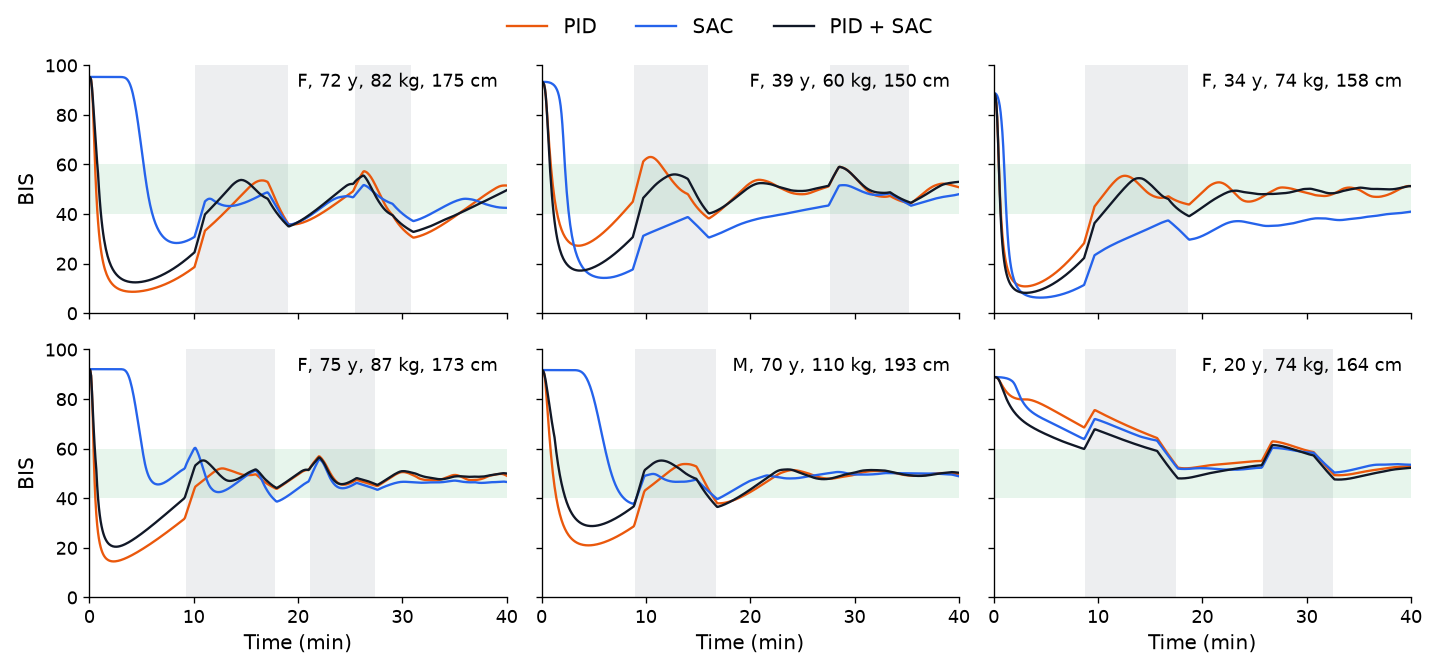
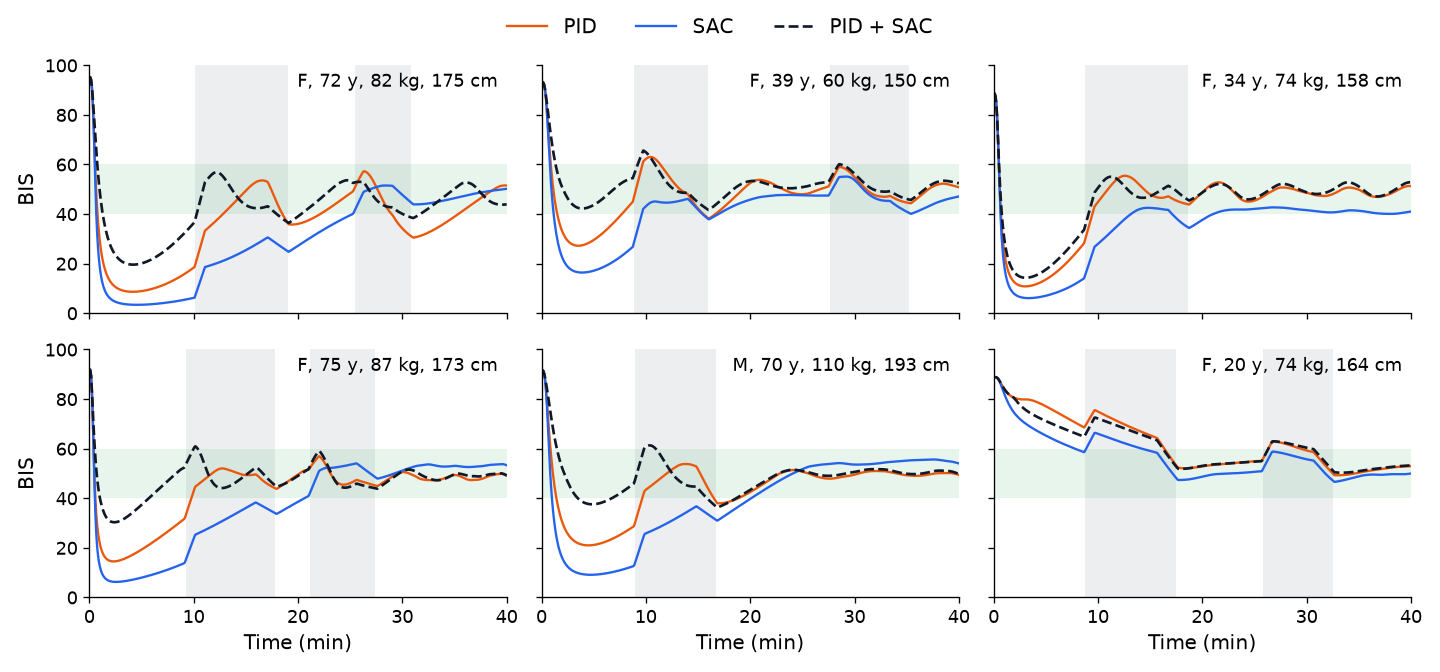
Minimum induction bolus, same 5-40 min scoring window for all, 5 seeds

diff --git a/benchmark.py b/benchmark.py
@@ -22,13 +22,12 @@ from residual import ResidualPolicy
 
 from style import COLORS as C, TARGET as C_TARGET
 MUTED = '#6B7280'
-ROWS = [('time_in_target', 'Maintenance: time in 40-60 (%)'),
-        ('MDAPE', 'Maintenance: MDAPE (%)'),
-        ('MDPE', 'Maintenance: MDPE (%)'),
-        ('wobble', 'Maintenance: wobble (%)'),
-        ('propofol_mgkgh', 'Maintenance: propofol (mg/kg/h)'),
-        ('case_below_40', 'Whole case: time below 40 (%)'),
-        ('case_above_60', 'Whole case: time above 60 after 1 min (%)'),
+ROWS = [('time_in_target', 'Time in 40-60 (%)'),
+        ('time_below_40', 'Time below 40 (%)'),
+        ('time_above_60', 'Time above 60 (%)'),
+        ('MDAPE', 'MDAPE (%)'),
+        ('propofol_mgkgh', 'Maintenance propofol (mg/kg/h)'),
+        ('bolus_mgkg', 'Induction bolus (mg/kg)'),
         ('reached_below_20', 'Patients reaching BIS < 20 (%)')]
 
 
@@ -59,19 +58,26 @@ def main():
             cells.append(f'{v.mean():.1f}' if len(v) == 1 else f'{v.mean():.1f} ± {v.std():.1f}')
         lines.append(f'| {label} | ' + ' | '.join(cells) + ' |')
 
-    per_patient = {n: np.mean([[m['time_in_target'] for m in res[n][s][1]] for s in res[n]], axis=0) for n in names}
+    per_seed = {n: np.array([[m['time_in_target'] for m in res[n][s][1]] for s in res[n]]) for n in names}
+    per_patient = {n: per_seed[n].mean(axis=0) for n in names}
     paired = {}
     for n in names[1:]:
         d = per_patient[n] - per_patient['PID']
+        # hierarchical bootstrap: resample training seeds, then test patients
         rng = np.random.default_rng(0)
-        boot = [rng.choice(d, len(d)).mean() for _ in range(10_000)]
+        D = per_seed[n] - per_seed['PID'][0]
+        boot = []
+        for _ in range(10_000):
+            seeds = rng.integers(0, len(D), len(D))
+            pats = rng.integers(0, D.shape[1], D.shape[1])
+            boot.append(D[seeds][:, pats].mean())
         lo, hi = np.percentile(boot, [2.5, 97.5])
         paired[n] = {'better': int(np.sum(d > 1)), 'worse': int(np.sum(d < -1)), 'n': len(d),
                      'mean_diff': float(d.mean()), 'ci95': [float(lo), float(hi)]}
         lines.append('')
         lines.append(f'{n} vs PID, per patient (time in target, averaged over seeds): better on {paired[n]["better"]}, '
                      f'worse on {paired[n]["worse"]}, within 1 point on {len(d) - paired[n]["better"] - paired[n]["worse"]} of {len(d)}. '
-                     f'Mean difference {d.mean():+.1f} points (95% bootstrap CI {lo:+.1f} to {hi:+.1f}).')
+                     f'Mean difference {d.mean():+.1f} points (95% CI {lo:+.1f} to {hi:+.1f}, bootstrap over seeds and patients).')
 
     out = {n: {str(s): res[n][s][0] for s in res[n]} for n in names}
     out['paired_vs_pid'] = paired
@@ -106,9 +112,9 @@ def figure_paired(pp):
     ax.plot([20, 100], [20, 100], color='#9CA3AF', lw=1, ls='--')
     for n, mk in (('SAC', 'o'), ('PID + SAC', '^')):
         if n in pp:
-            ax.scatter(pp['PID'], pp[n], s=34, color=C[n], alpha=0.85, label=n, marker=mk, lw=0)
-    ax.set_xlabel('PID, maintenance time in 40-60 (%)', fontsize=11)
-    ax.set_ylabel('RL, maintenance time in 40-60 (%)', fontsize=11)
+            ax.scatter(pp['PID'], pp[n], s=38, facecolors='none', edgecolors=C[n], lw=1.3, label=n, marker=mk)
+    ax.set_xlabel('PID, time in 40-60 (%)', fontsize=12)
+    ax.set_ylabel('RL, time in 40-60 (%)', fontsize=12)
     ax.set_xticks([20, 40, 60, 80, 100]); ax.set_yticks([20, 40, 60, 80, 100])
     ax.set_xlim(18, 101); ax.set_ylim(18, 101); style(ax)
     ax.legend(frameon=False, loc='upper left', fontsize=11, handletextpad=0.2)
@@ -125,7 +131,8 @@ def figure_traces(models, idx=(0, 3, 8, 11, 19, 26)):
             if k == 0:   # stimulation timing is identical for every controller
                 stim = np.array([s['disturbance'] for s in tr]) > 0.5
                 ax.fill_between(t, 0, 100, where=stim, color='#9CA3AF', alpha=0.18, lw=0)
-            ax.plot(t, [s['bis'] for s in tr], color=C[lab], lw=1.4, label=lab)
+            ax.plot(t, [s['bis'] for s in tr], color=C[lab], lw=1.6 if lab == 'PID + SAC' else 1.4,
+                    ls='--' if lab == 'PID + SAC' else '-', label=lab)
         ax.axhspan(40, 60, color=C_TARGET, alpha=0.1, lw=0)
         ax.text(0.98, 0.97, describe(pats[i]), transform=ax.transAxes, fontsize=11, va='top', ha='right')
         ax.set_ylim(0, 100); ax.set_xlim(0, 40); ax.set_xticks([0, 10, 20, 30, 40]); style(ax)

diff --git a/evaluate.py b/evaluate.py
@@ -5,7 +5,8 @@ Every controller runs on the same test patients with the same monitor noise
 and the same surgical-stimulation timing (common random numbers), so
 differences come from the controller, not from luck.
 
-Metrics (maintenance phase, after induction):
+Metrics are computed over the same 5-40 min window for every controller,
+except bolus, time to BIS < 60 and whether BIS ever went below 20:
   time_in_target  % of time true BIS in [40, 60]
   MDPE            median performance error, bias (Varvel et al. 1992)
   MDAPE           median absolute performance error, inaccuracy
@@ -38,28 +39,30 @@ def run_episode(controller, patient, noise_seed):
     return trace
 
 
+WINDOW = (5.0, 40.0)   # min; every controller is scored over the same stretch
+
+
 def episode_metrics(trace):
     t = np.array([s['time_min'] for s in trace])
     bis = np.array([s['bis'] for s in trace])
-    maint = np.array([s['phase'] == 'maintenance' for s in trace])
-    ind_idx = int(np.argmax(maint)) if maint.any() else len(trace) - 1
-    b = bis[maint]
+    w = (t >= WINDOW[0]) & (t <= WINDOW[1])
+    b = bis[w]
     pe = (b - BIS_TARGET) / BIS_TARGET * 100
     mdpe = float(np.median(pe))
-    inf = np.array([s['infusion_mgkgh'] for s in trace])[maint]
+    maint = np.array([s['phase'] == 'maintenance' for s in trace])
+    below60 = np.flatnonzero(bis < 60)
     return {
         'time_in_target': float(np.mean((b >= 40) & (b <= 60)) * 100),
         'MDPE': mdpe,
         'MDAPE': float(np.median(np.abs(pe))),
         'wobble': float(np.median(np.abs(pe - mdpe))),
         'time_below_40': float(np.mean(b < 40) * 100),
-        'min_bis': float(bis.min()),
-        'induction_min': float(t[ind_idx]),
-        'propofol_mgkgh': float(inf.mean()),
-        # whole case, induction included
-        'case_below_40': float(np.mean(bis < 40) * 100),
-        'case_above_60': float(np.mean(bis[t > 1.0] > 60) * 100),   # ignore the first minute (awake at start)
+        'time_above_60': float(np.mean(b > 60) * 100),
+        'propofol_mgkgh': float(np.mean([s['infusion_mgkgh'] for s in trace][int(np.argmax(maint)):])),
+        'bolus_mgkg': float(sum(s['bolus_mgkg'] for s in trace)),
+        'time_to_60_min': float(t[below60[0]]) if len(below60) else float('nan'),
         'reached_below_20': float(bis.min() < 20) * 100,
+        'min_bis': float(bis.min()),
     }
 
 

diff --git a/AnesthesiaEnv.py b/AnesthesiaEnv.py
@@ -29,7 +29,8 @@ MAX_STEPS = int(EPISODE_MIN * 60 / DT_S)
 MAX_INFUSION = 1 / 3              # mg/kg/min  (20 mg/kg/h)
 MAX_BOLUS_RATE = 4.0              # mg/kg/min
 BOLUS_BUDGET = 2.5                # mg/kg
-INDUCTION_TIMEOUT_MIN = 3.0       # switch to maintenance after 3 min regardless
+MIN_BOLUS = 1.0                   # mg/kg; induction always gives at least this
+INDUCTION_TIMEOUT_MIN = 3.0       # after the minimum bolus, switch to maintenance by 3 min
 
 # BIS monitor model
 BIS_TARGET = 50.0
@@ -126,7 +127,9 @@ class AnesthesiaEnv(gym.Env):
         t = self.step_count * DT
 
         # phase switch is decided on the measured signal, as a clinician would
-        if not self.in_maintenance and (self.filtered <= BIS_INDUCTION_DONE or self.bolus_left <= 1e-9 or t >= INDUCTION_TIMEOUT_MIN):
+        given = BOLUS_BUDGET - self.bolus_left
+        if (not self.in_maintenance and given >= MIN_BOLUS - 1e-9
+                and (self.filtered <= BIS_INDUCTION_DONE or self.bolus_left <= 1e-9 or t >= INDUCTION_TIMEOUT_MIN)):
             self.in_maintenance = True
 
         bolus_mgkg = 0.0
@@ -139,7 +142,10 @@ class AnesthesiaEnv(gym.Env):
             self.patient.step(DT, u_prop, 0.0)
         else:
             smooth = 0.0
-            bolus_mgkg = min(float(a[1]) * MAX_BOLUS_RATE * DT, self.bolus_left)
+            requested = float(a[1]) * MAX_BOLUS_RATE * DT
+            if given < MIN_BOLUS:   # no skipping induction: the first 1 mg/kg always goes in
+                requested = max(requested, min(MAX_BOLUS_RATE * DT, MIN_BOLUS - given))
+            bolus_mgkg = min(requested, self.bolus_left)
             self.bolus_left -= bolus_mgkg
             self.patient.add_bolus(bolus_mgkg * self.weight)
             self.patient.step(DT, 0.0, 0.0)

diff --git a/results/benchmark.md b/results/benchmark.md
@@ -1,14 +1,13 @@
 | | PID | SAC | PID + SAC |
 |---|---|---|---|
-| Maintenance: time in 40-60 (%) | 81.2 | 71.3 ± 1.8 | 78.5 ± 0.8 |
-| Maintenance: MDAPE (%) | 8.0 | 11.8 ± 1.1 | 8.4 ± 0.4 |
-| Maintenance: MDPE (%) | 1.9 | 0.5 ± 0.3 | 2.1 ± 0.1 |
-| Maintenance: wobble (%) | 6.1 | 7.4 ± 1.0 | 6.7 ± 0.2 |
-| Maintenance: propofol (mg/kg/h) | 7.1 | 6.8 ± 0.7 | 6.7 ± 0.1 |
-| Whole case: time below 40 (%) | 8.8 | 13.9 ± 2.2 | 11.8 ± 0.9 |
-| Whole case: time above 60 after 1 min (%) | 11.3 | 15.7 ± 2.9 | 9.9 ± 0.4 |
-| Patients reaching BIS < 20 (%) | 23.3 | 24.4 ± 10.3 | 28.9 ± 4.2 |
+| Time in 40-60 (%) | 84.9 | 70.0 ± 9.0 | 85.0 ± 0.8 |
+| Time below 40 (%) | 5.5 | 19.5 ± 7.6 | 6.0 ± 1.7 |
+| Time above 60 (%) | 9.6 | 10.5 ± 2.6 | 9.0 ± 1.0 |
+| MDAPE (%) | 7.4 | 14.5 ± 5.5 | 7.3 ± 0.3 |
+| Maintenance propofol (mg/kg/h) | 7.1 | 6.6 ± 0.5 | 6.8 ± 0.2 |
+| Induction bolus (mg/kg) | 1.9 | 2.5 ± 0.0 | 2.1 ± 0.2 |
+| Patients reaching BIS < 20 (%) | 23.3 | 38.0 ± 2.7 | 26.0 ± 7.1 |
 
-SAC vs PID, per patient (time in target, averaged over seeds): better on 3, worse on 26, within 1 point on 1 of 30. Mean difference -9.9 points (95% bootstrap CI -13.9 to -6.4).
+SAC vs PID, per patient (time in target, averaged over seeds): better on 2, worse on 25, within 1 point on 3 of 30. Mean difference -14.9 points (95% CI -26.0 to -6.3, bootstrap over seeds and patients).
 
-PID + SAC vs PID, per patient (time in target, averaged over seeds): better on 9, worse on 18, within 1 point on 3 of 30. Mean difference -2.7 points (95% bootstrap CI -4.6 to -0.8).
+PID + SAC vs PID, per patient (time in target, averaged over seeds): better on 11, worse on 14, within 1 point on 5 of 30. Mean difference +0.1 points (95% CI -1.6 to +1.9, bootstrap over seeds and patients).
